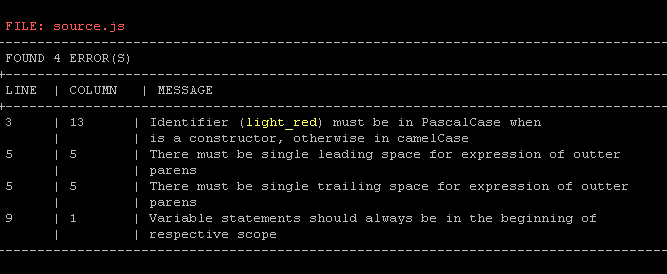
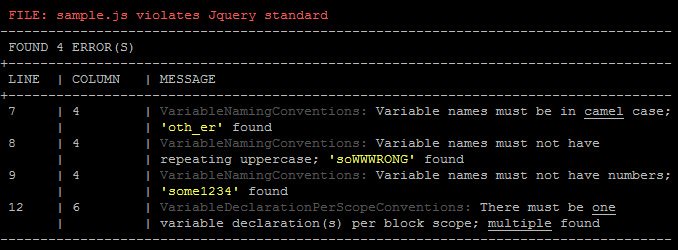
tokens and comments removed from SyntaxTree analysis

diff --git a/lib/Dictionary/en.js b/lib/Dictionary/en.js
@@ -17,48 +17,48 @@ define( function ( require, exports, module ) {
   return {
     "IndentationWithTabs" : "Only tabs allowed for indentation",
     "IndentationWithSpaces" : "Only spaces allowed for indentation",
-    "ObjectPropertyKeyPrecedingSpacing" : "There must be [color:underline]{expected}[/color] whitespace(s) preceding object property key; [color:yellow]{actual}[/color] found",
-    "ObjectPropertyKeyTrailingSpacing" : "There must be [color:underline]{expected}[/color] whitespace(s) trailing object property key; [color:yellow]{actual}[/color] found",
-    "ObjectPropertyValuePrecedingSpacing" : "There must be [color:underline]{expected}[/color] whitespace(s) preceding object property value; [color:yellow]{actual}[/color] found",
-    "ObjectPropertyValueTrailingSpacing" : "There must be [color:underline]{expected}[/color] whitespace(s) trailing object property value; [color:yellow]{actual}[/color] found",
+    "ObjectPropertyKeyPrecedingSpacing" : "There must be [color:underline]{expected}[/color] whitespace(s) preceding object property key; [color:underline]{actual}[/color] found",
+    "ObjectPropertyKeyTrailingSpacing" : "There must be [color:underline]{expected}[/color] whitespace(s) trailing object property key; [color:underline]{actual}[/color] found",
+    "ObjectPropertyValuePrecedingSpacing" : "There must be [color:underline]{expected}[/color] whitespace(s) preceding object property value; [color:underline]{actual}[/color] found",
+    "ObjectPropertyValueTrailingSpacing" : "There must be [color:underline]{expected}[/color] whitespace(s) trailing object property value; [color:underline]{actual}[/color] found",
     "FunctionNamingConventions" : "Function names must be in [color:underline]{expected}[/color] case.",
     "FunctionNamingRepeatingUppercase" : "Function names must not have repeating uppercase.",
     "FunctionNamingNumbersNotAllowed" : "Function names must not have numbers.",
     "VariableNamingConventions" : "Variable names must be in [color:underline]{expected}[/color] case; [color:yellow]'{actual}'[/color] found",
-    "VariableNamingRepeatingUppercase" : "Variable names must not have repeating uppercase.",
-    "VariableNamingNumbersNotAllowed" : "Variable names must not have numbers.",
-    "UnaryExpressionValueTrailingSpacing" : "There must be [color:underline]{expected}[/color] whitespace(s) trailing unary expression; [color:yellow]{actual}[/color] found",
+    "VariableNamingRepeatingUppercase" : "Variable names must not have repeating uppercase; [color:yellow]'{actual}'[/color] found",
+    "VariableNamingNumbersNotAllowed" : "Variable names must not have numbers; [color:yellow]'{actual}'[/color] found",
+    "UnaryExpressionValueTrailingSpacing" : "There must be [color:underline]{expected}[/color] whitespace(s) trailing unary expression; [color:underline]{actual}[/color] found",
     "CompoundStatementRequireBraces": "Compound statements require braces",
     "CompoundStatementRequireMultipleLines": "Compound statements always go on multiple lines",
 
-    "TernaryConditionalTestTrailingWhitespaces": "There must be [color:underline]{expected}[/color] whitespace(s) preceding '?' punctuator; [color:yellow]{actual}[/color] found",
-    "TernaryConditionalConsequentPrecedingWhitespaces": "There must be [color:underline]{expected}[/color] whitespace(s) trailing '?' punctuator; [color:yellow]{actual}[/color] found",
-    "TernaryConditionalConsequentTrailingWhitespaces": "There must be [color:underline]{expected}[/color] whitespace(s) preceding ':' punctuator; [color:yellow]{actual}[/color] found",
-    "TernaryConditionalAlternatePrecedingWhitespaces": "There must be [color:underline]{expected}[/color] whitespace(s) trailing ':' punctuator; [color:yellow]{actual}[/color] found",
+    "TernaryConditionalTestTrailingWhitespaces": "There must be [color:underline]{expected}[/color] whitespace(s) preceding '?' punctuator; [color:underline]{actual}[/color] found",
+    "TernaryConditionalConsequentPrecedingWhitespaces": "There must be [color:underline]{expected}[/color] whitespace(s) trailing '?' punctuator; [color:underline]{actual}[/color] found",
+    "TernaryConditionalConsequentTrailingWhitespaces": "There must be [color:underline]{expected}[/color] whitespace(s) preceding ':' punctuator; [color:underline]{actual}[/color] found",
+    "TernaryConditionalAlternatePrecedingWhitespaces": "There must be [color:underline]{expected}[/color] whitespace(s) trailing ':' punctuator; [color:underline]{actual}[/color] found",
 
-    "EmptyConstructsSpacing": "There must be no whitespaces in empty constructs; [color:yellow]{actual}[/color] found",
-    "ArraylElementPrecedingSpacing" : "There must be [color:underline]{expected}[/color] whitespace(s) preceding array element; [color:yellow]{actual}[/color] found",
-    "ArraylElementTrailingSpacing" : "There must be [color:underline]{expected}[/color] whitespace(s) trailing array element; [color:yellow]{actual}[/color] found",
+    "EmptyConstructsSpacing": "There must be no whitespaces in empty constructs; [color:underline]{actual}[/color] found",
+    "ArraylElementPrecedingSpacing" : "There must be [color:underline]{expected}[/color] whitespace(s) preceding array element; [color:underline]{actual}[/color] found",
+    "ArraylElementTrailingSpacing" : "There must be [color:underline]{expected}[/color] whitespace(s) trailing array element; [color:underline]{actual}[/color] found",
     "QuoteConventionsDoubleQuotesNotAllowed" : "Double quotes not allowed for wrapping string literals",
     "QuoteConventionsSingleQuotesNotAllowed" : "Single quotes not allowed for wrapping string literals",
 
 
-    "ParamPrecedingWhitespaces": "There must be [color:underline]{expected}[/color] whitespace(s) preceding parameter; [color:yellow]{actual}[/color] found",
-    "ParamTrailingWhitespaces": "There must be [color:underline]{expected}[/color] whitespace(s) trailing parameter; [color:yellow]{actual}[/color] found",
-    "ArgPrecedingWhitespaces": "There must be [color:underline]{expected}[/color] whitespace(s) preceding argument; [color:yellow]{actual}[/color] found",
-    "ArgTrailingWhitespaces": "There must be [color:underline]{expected}[/color] whitespace(s) trailing argument; [color:yellow]{actual}[/color] found",
+    "ParamPrecedingWhitespaces": "There must be [color:underline]{expected}[/color] whitespace(s) preceding parameter; [color:underline]{actual}[/color] found",
+    "ParamTrailingWhitespaces": "There must be [color:underline]{expected}[/color] whitespace(s) trailing parameter; [color:underline]{actual}[/color] found",
+    "ArgPrecedingWhitespaces": "There must be [color:underline]{expected}[/color] whitespace(s) preceding argument; [color:underline]{actual}[/color] found",
+    "ArgTrailingWhitespaces": "There must be [color:underline]{expected}[/color] whitespace(s) trailing argument; [color:underline]{actual}[/color] found",
 
-    "ChainedMethodCallsTrailingObjectWhitespaces": "There must be [color:underline]{expected}[/color] whitespace(s) trailing object; [color:yellow]{actual}[/color] found",
-    "ChainedMethodCallsPrecedingPropertyWhitespaces": "There must be [color:underline]{expected}[/color] whitespace(s) preceding property; [color:yellow]{actual}[/color] found",
-    "MultipleVarDeclarationPerBlockScope": "There must be [color:underline]{expected}[/color] variable declaration(s) per block scope; [color:yellow]{actual}[/color] found",
+    "ChainedMethodCallsTrailingObjectWhitespaces": "There must be [color:underline]{expected}[/color] whitespace(s) trailing object; [color:underline]{actual}[/color] found",
+    "ChainedMethodCallsPrecedingPropertyWhitespaces": "There must be [color:underline]{expected}[/color] whitespace(s) preceding property; [color:underline]{actual}[/color] found",
+    "MultipleVarDeclarationPerBlockScope": "There must be [color:underline]{expected}[/color] variable declaration(s) per block scope; [color:underline]{actual}[/color] found",
 
-    "OperatorPrecedingWhitespaces": "There must be [color:underline]{expected}[/color] whitespace(s) preceding operator; [color:yellow]{actual}[/color] found",
-    "OperatorTrailingWhitespaces": "There must be [color:underline]{expected}[/color] whitespace(s) trailing operator; [color:yellow]{actual}[/color] found",
+    "OperatorPrecedingWhitespaces": "There must be [color:underline]{expected}[/color] whitespace(s) preceding operator; [color:underline]{actual}[/color] found",
+    "OperatorTrailingWhitespaces": "There must be [color:underline]{expected}[/color] whitespace(s) trailing operator; [color:underline]{actual}[/color] found",
     "OnlyTabsAllowedForIndentation" : "There must be used only tabs in indentation",
     "OnlySpacesAllowedForIndentation" : "There must be used only spaces in indentation",
-    "LineTrailingSpacesNotAllowed" : "There must be no line trailing spaces; [color:yellow]{actual}[/color] found",
-    "ExceededLineMaxLength": "There must be maximum [color:underline]{expected}[/color] characters of line length; [color:yellow]{actual}[/color] found",
-    "DeceedLineMinLength": "There must be minimum [color:underline]{expected}[/color] characters of line length; [color:yellow]{actual}[/color] found",
+    "LineTrailingSpacesNotAllowed" : "There must be no line trailing spaces; [color:underline]{actual}[/color] found",
+    "ExceededLineMaxLength": "There must be maximum [color:underline]{expected}[/color] characters of line length; [color:underline]{actual}[/color] found",
+    "DeceedLineMinLength": "There must be minimum [color:underline]{expected}[/color] characters of line length; [color:underline]{actual}[/color] found",
 
     "CommaPrecedingSpacesNotAllowed": "No spaces preceding comma punctuator allowed",
     "SemicolonPrecedingSpacesNotAllowed": "No spaces preceding semicolon punctuator allowed",

diff --git a/lib/Sniff/SyntaxTree/VariableNamingConventions.js b/lib/Sniff/SyntaxTree/VariableNamingConventions.js
@@ -18,14 +18,6 @@ define(function ( require, exports, module ) {
 var utils = require( "../Utils"),
     NAME = "VariableNamingConventions";
 return function( sourceCode, mediator ) {
-
-      var reCase = {
-            camel: /^[\$_]?[a-z][a-zA-Z0-9]*$/g,
-            pascal: /^[\$_]?[A-Z][a-zA-Z0-9]*$/g
-          },
-          reRepeatingUc = /[A-Z]+/g,
-          reNumbers = /[0-9]/g;
-
       return {
         /**
          * Check contract
@@ -65,23 +57,36 @@ return function( sourceCode, mediator ) {
           }
         },
 
+
         /**
          *
-         * @param {array} rule
+         * @param {Array} rule
          * @param {object} node
          */
         sniffCase: function( rule, node ) {
-          var code = "VariableNamingConventions",
-              isValid = false;
+          var reCase = {
+                camel: /^[\$_]?[a-z][a-zA-Z0-9]*$/g,
+                pascal: /^[\$_]?[A-Z][a-zA-Z0-9]*$/g
+              },
+              reAllLowerCase = /^[a-z]+$/g,
+              isChainValid = false,
+              val;
           if ( node.type === "Identifier"  ) {
+            val = node.name;
+            if ( reAllLowerCase.test( val ) ) {
+              return;
+            }
+
             rule.forEach(function( nCase ){
+              var isValid;
               if ( reCase.hasOwnProperty( nCase ) ) {
-                isValid = isValid || reCase[ nCase ].test( node.name );
+                isValid = reCase[ nCase ].test( val );
+                isChainValid = isChainValid || isValid;
               }
             });
-            if ( !isValid ) {
-              mediator.publish( "violation", NAME, code, node.range, node.loc, {
-                actual: "",
+            if ( !isChainValid ) {
+              mediator.publish( "violation", NAME, "VariableNamingConventions", node.range, node.loc, {
+                actual: val,
                 expected: rule.join( " or " )
               });
             }
@@ -93,10 +98,19 @@ return function( sourceCode, mediator ) {
          * @param {object} node
          */
         sniffRepeatingUc: function( rule, node ) {
-          var code = "VariableNamingRepeatingUppercase";
+          var reAllLowerCase = /^[a-z]+$/g,
+              reRepeatingUc = /[A-Z]+/g,
+              val;
           if ( node.type === "Identifier"  ) {
-            if ( !rule && reRepeatingUc.test( node.name ) ) {
-              mediator.publish( "violation", NAME, code, node.range, node.loc );
+            val = node.name;
+            if ( reAllLowerCase.test( val ) ) {
+              return;
+            }
+            if ( !rule && reRepeatingUc.test( val ) ) {
+              mediator.publish( "violation", NAME, "VariableNamingRepeatingUppercase", node.range, node.loc, {
+                actual: val,
+                expected: ""
+              });
             }
           }
         },
@@ -107,10 +121,15 @@ return function( sourceCode, mediator ) {
          * @param {object} node
          */
         sniffNumbers: function( rule, node ) {
-          var code = "VariableNamingNumbersNotAllowed";
+          var reNumbers = /[0-9]/g,
+              val;
           if ( node.type === "Identifier"  ) {
-            if ( !rule && reNumbers.test( node.name ) ) {
-              mediator.publish( "violation", NAME, code, node.range, node.loc );
+            val = node.name;
+            if ( !rule && reNumbers.test( val ) ) {
+              mediator.publish( "violation", NAME, "VariableNamingNumbersNotAllowed", node.range, node.loc, {
+                actual: val,
+                expected: ""
+              });
             }
           }
         }

diff --git a/lib/Cli.js b/lib/Cli.js
@@ -84,7 +84,7 @@ var Cli =  function( fsContainer, pathContainer ) {
         },
         /**
          * Populate options with ones founds in args
-         * @param {array} args
+         * @param {Array} args
          * @param {object} options - reference
          * @return {string}
          */
@@ -102,7 +102,7 @@ var Cli =  function( fsContainer, pathContainer ) {
 
         /**
          * Find file name or path given in CLI arguments
-         * @param {array} args
+         * @param {Array} args
          * @return {string}
          */
         findPathInCliArgs: function( args, options ) {
@@ -138,7 +138,7 @@ var Cli =  function( fsContainer, pathContainer ) {
          * @returns {object}
          */
         readRealtimeConfig: function( pathArg ) {
-          var LOCAL_CFG_FILE = ".jscs",
+          var LOCAL_CFG_FILE = ".jscsrc",
               parentPath,
               cfgPath = pathContainer.join( pathArg, LOCAL_CFG_FILE );
 
@@ -147,7 +147,7 @@ var Cli =  function( fsContainer, pathContainer ) {
           }
 
           parentPath =  pathContainer.join( pathArg, "/../" );
-          
+
           if ( parentPath.length > 1 && fsContainer.statSync( parentPath ).isDirectory() ) {
             this.readRealtimeConfig( parentPath );
           }

diff --git a/test/lib-formatter-full.js b/test/lib-formatter-full.js
@@ -41,10 +41,10 @@ describe('Formatter/Full.js', function () {
 
       it('report must render intended output', function () {
        normalize( formatter.report( "sample.js", messages ) ).should.eql( '[color:light red]FILE: sample.js ' +
-          'violates undefined standard [/color] -------------------------------------------------------------- ' +
-          'FOUND 1 ERROR(S) +------------------------------------------------------------- LINE | COLUMN | ' +
-          'MESSAGE +------------------------------------------------------------- 1 | 0 | ' +
-          'message --------------------------------------------------------------' );
+        'violates undefined standard [/color] -------------------------------------------------------------- ' +
+        'FOUND 1 ERROR(S) +------------------------------------------------------------- LINE | COLUMN | MESSAGE ' +
+        '+------------------------------------------------------------- 1 | 0 | [color:dark gray]sniff:[/color]' +
+        ' message --------------------------------------------------------------' );
       });
 
     });

diff --git a/lib/SyntaxAnalizer.js b/lib/SyntaxAnalizer.js
@@ -114,7 +114,7 @@ define( function ( require, exports, module ) {
         },
         /**
          * Go through the tokens list and apply registered sniffs to every token
-         * @param {array} tokens
+         * @param {Array} tokens
          */
         applyTokenSniffs: function( tokens ) {
           tokens.forEach(function( token ){
@@ -157,9 +157,12 @@ define( function ( require, exports, module ) {
               traverseEvery = function( member ) {
                 this.that.traverseSyntaxTree( member, this.fn, this.node );
               };
+              
           node && node.hasOwnProperty( "type" ) && fn( node, parentNode );
+
           for ( propName in node ) {
-            if ( propName !== "parent" && node.hasOwnProperty( propName ) ) {
+            if ( propName !== "parent" && node.hasOwnProperty( propName ) &&
+              propName !== "tokens" && propName !== "comments" ) {
               contents = node[ propName ];
               if ( contents && typeof contents === 'object' ) {
                 if ( Array.isArray( contents ) ) {

diff --git a/lib/Sniffer.js b/lib/Sniffer.js
@@ -45,6 +45,7 @@ return function() {
           syntaxTree = this.getSyntaxTree( text );
 
           options.standard = this.findJscsConfigInComments( syntaxTree.comments ) || options.standard;
+
           if ( options.standard ) {
             standard = this.loadStandard ( options.standard );
             utils.extend( standard, rulesetOverrides );
@@ -109,7 +110,7 @@ return function() {
         },
         /**
          * Parse source code block comments for @jscs option instructions
-         * @param {array} comments
+         * @param {Array} comments
          * @returns {string}
          */
         findJscsConfigInComments: function( comments ) {

diff --git a/jscs.js b/jscs.js
@@ -75,7 +75,7 @@ var MIN_REPORT_WIDTH = 32,
         dictionary = new Dictionary();
 
         rulesetOverrides = cli.readRealtimeConfig( process.cwd() );
-
+        
         cli.applyToEveryFileInPath( where , function( pathArg, data ) {
             logger = sniffer.getTestResults( data, options, rulesetOverrides );
             reporter.add( pathArg, dictionary.translateBulk( logger.getMessages() ), options.standard );
@@ -97,9 +97,9 @@ var MIN_REPORT_WIDTH = 32,
           process.exit( 1 );
         }
       };
-
-try {
- main();
-} catch ( e ) {
-  console.error( e );
-}
+main();
+//try {
+// main();
+//} catch ( e ) {
+//  console.error( e );
+//}

diff --git a/lib/Sniff/SyntaxTree/ParametersSpacing.js b/lib/Sniff/SyntaxTree/ParametersSpacing.js
@@ -50,6 +50,10 @@ var utils = require( "../Utils"),
             // Checking trailing for the last param
             // { param, param< >}
             last = node.params[ node.params.length - 1 ];
+            // Empty parameter list
+            if ( !last ) {
+              return;
+            }
             pos = last.range[ 1 ] + sourceCode.extract( last.range[ 1 ], node.body.range[ 0 ] ).find( ")" );
             this.sniff( last, last.range[ 1 ], pos,
               rule.allowParamTrailingWhitespaces, "ParamTrailingWhitespaces" );

diff --git a/sample.js b/sample.js
@@ -3,6 +3,12 @@
  */
 "use strict";
 function a() {};
-var some = 4,
-    oth_er = 5,
-    soWWWRONG = 7;
+var some = 4, // OK
+    oth_er = 5, // No camel/pascal style
+    soWWWRONG = 7, // Repeating uppercase
+    some1234 = 1, //include digits
+    Foo = function() { // can be constructor
+      var a;
+      var b;
+    };
+

diff --git a/test/lib-syntax-analizer.js b/test/lib-syntax-analizer.js
@@ -19,7 +19,7 @@ describe( "SyntaxAnalizer", function () {
         }
       });
       out.shift().type.should.eql( "Program" );
-      out.pop().type.should.eql( "Punctuator" );
+      out.pop().type.should.eql( "BlockStatement" );
       expectedNode.type.should.eql( "FunctionExpression" );
     });
   });

diff --git a/lib/Reporter.js b/lib/Reporter.js
@@ -47,7 +47,7 @@ define( function ( require, exports, module ) {
       /**
        * Add report per file
        * @param {string} path
-       * @param {array} messages
+       * @param {Array} messages
        * @param {string} standard
        */
       add: function( path, messages, standard ) {

diff --git a/lib/Dictionary.js b/lib/Dictionary.js
@@ -57,8 +57,8 @@ return function( dictionary ) {
    },
    /**
     * Translate array of messages
-    * @param {array} messages
-    * @return {array} messages
+    * @param {Array} messages
+    * @return {Array} messages
     */
    translateBulk: function( messages ) {
      var that = this;
